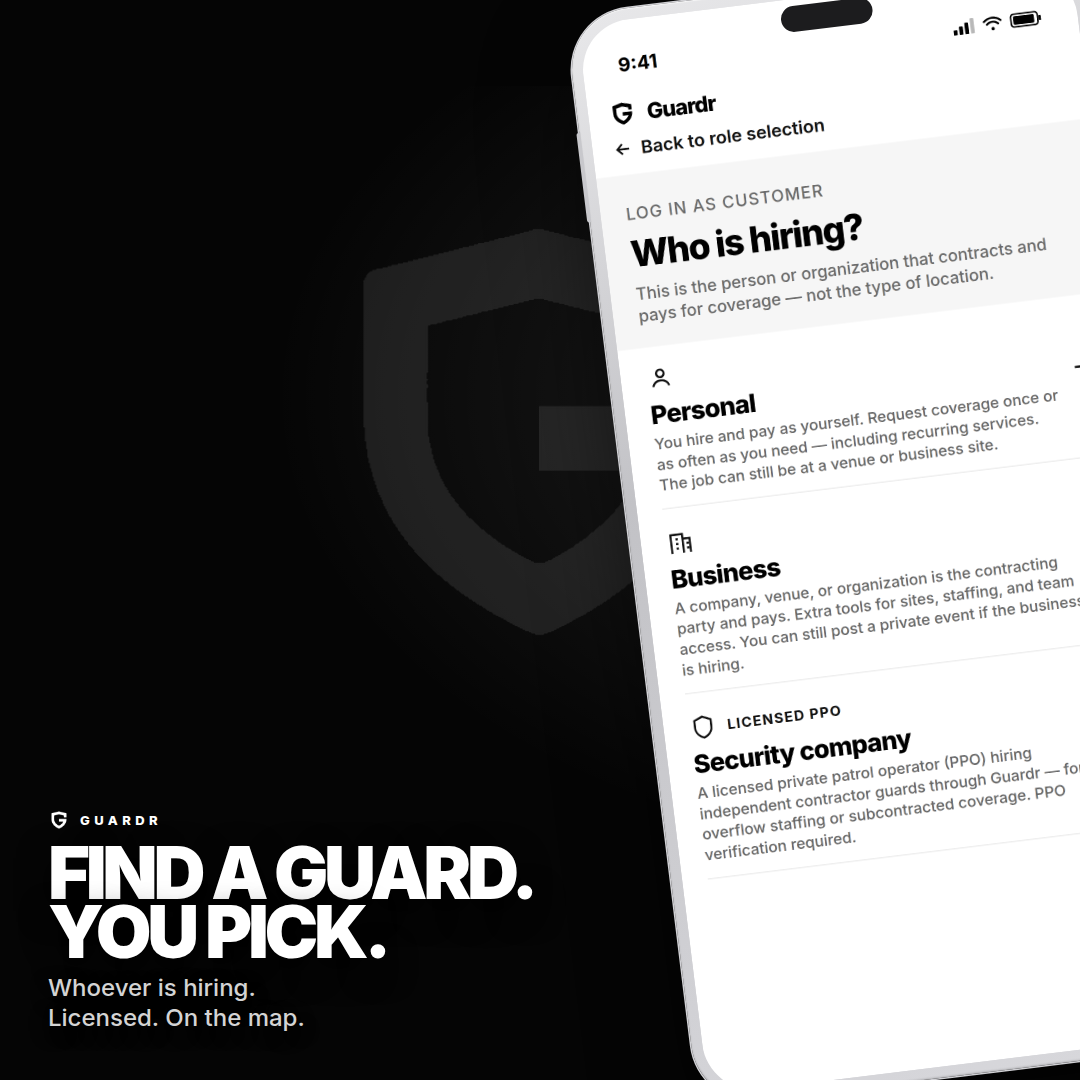
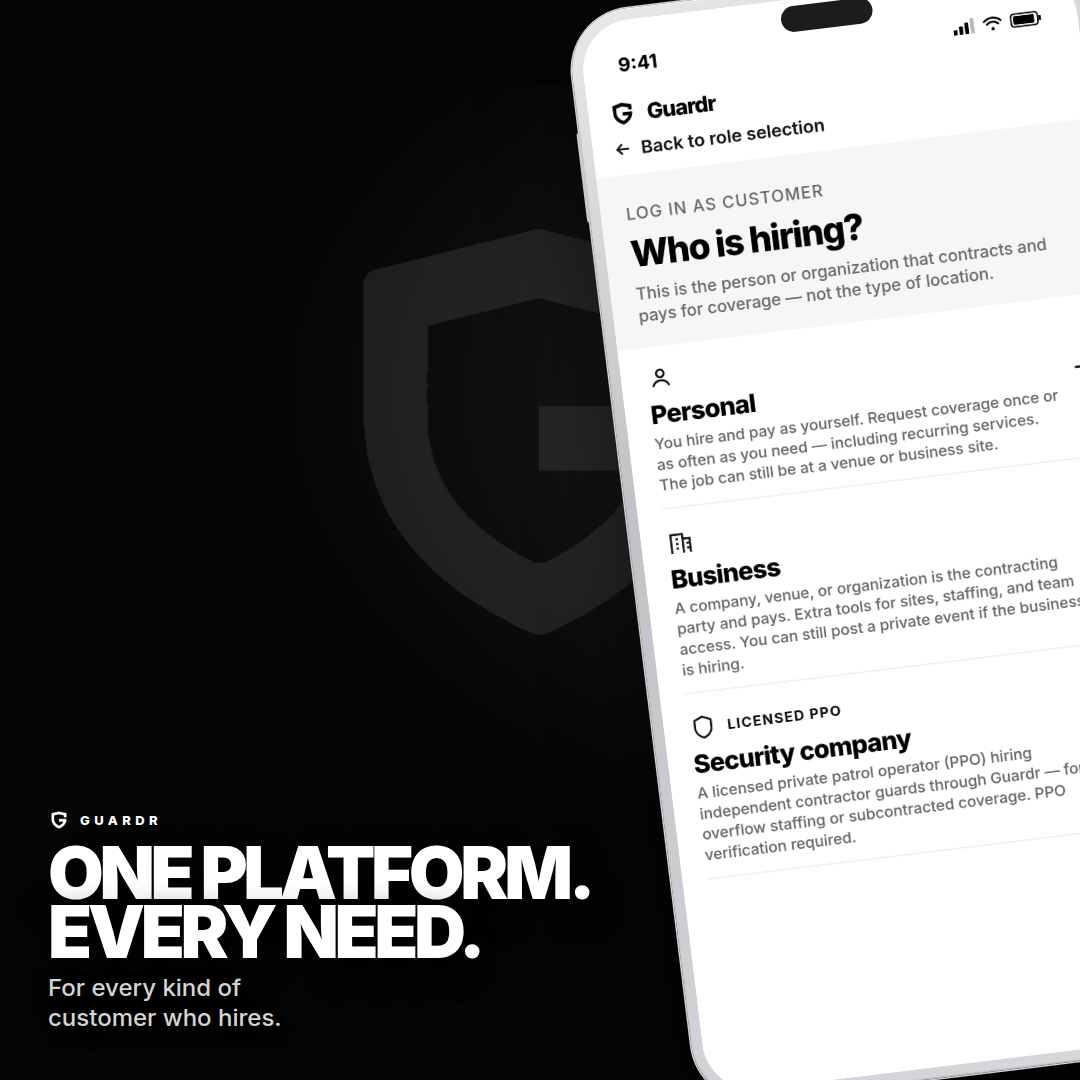
Say one platform for every customer need
Bottom line is ONE PLATFORM. EVERY NEED. — the phone already
shows personal, business, and security company.

Changed region(s): [[0.0306, 0.7639, 0.55, 0.9778]]

diff --git a/docs/marketing/promo-posts-today.md b/docs/marketing/promo-posts-today.md
@@ -5,7 +5,7 @@ Black-and-white. One idea per post. Brand: **Guardr** · **www.guardr.co**
 Re-render B&W: `node scripts/render-promo-posts.mjs --bw`  
 Re-render carousels only: `node scripts/render-promo-posts.mjs --carousel`
 
-**Start here:** who can find a licensed guard — **personal, business, and security companies.** Then you pick who works.
+**Start here:** one platform for every kind of customer who hires — personal, business, and security companies.
 
 ---
 
@@ -13,9 +13,9 @@ Re-render carousels only: `node scripts/render-promo-posts.mjs --carousel`
 
 [`instagram/ig-who-finds.png`](../../assets/marketing/posts/instagram/ig-who-finds.png)
 
-Who is hiring? on the phone (Personal, Business, Security company). Type at the bottom: **FIND A GUARD. YOU PICK.**
+Who is hiring? on the phone (Personal, Business, Security company). Type at the bottom: **ONE PLATFORM. EVERY NEED.**
 
-**Caption:** Find a licensed California guard. Whoever is hiring — you pick who works.
+**Caption:** One platform for every kind of customer who hires. Licensed California guards — you pick who works.
 
 Guardr is the platform — not a staffing agency. Not dispatch. Clients contract directly per job.
 
@@ -37,7 +37,7 @@ Opens on **who can hire**, with the sign-in page on the phone. Ending cover is s
 
 | # | File | Screen | Line |
 |---|---|---|---|
-| 1 Cover | [`00-cover.png`](../../assets/marketing/posts/instagram/carousel-clients/00-cover.png) | Who is hiring? | FIND A GUARD. YOU PICK. |
+| 1 Cover | [`00-cover.png`](../../assets/marketing/posts/instagram/carousel-clients/00-cover.png) | Who is hiring? | ONE PLATFORM. EVERY NEED. |
 | 2 | [`01-tonight.png`](../../assets/marketing/posts/instagram/carousel-clients/01-tonight.png) | Map | NEED A GUARD TONIGHT? |
 | 3 | [`02-post-pick.png`](../../assets/marketing/posts/instagram/carousel-clients/02-post-pick.png) | Jobs | POST A JOB. PICK A GUARD. |
 | 4 | [`03-chat.png`](../../assets/marketing/posts/instagram/carousel-clients/03-chat.png) | Chat | TALK TO WHO APPLIES. |
@@ -100,7 +100,7 @@ Link sticker: **https://www.guardr.co**
 
 | Image | Line |
 |---|---|
-| [`stories/story-who-finds.png`](../../assets/marketing/posts/stories/story-who-finds.png) | FIND A GUARD. YOU PICK. |
+| [`stories/story-who-finds.png`](../../assets/marketing/posts/stories/story-who-finds.png) | ONE PLATFORM. EVERY NEED. |
 | [`stories/story-how-it-works.png`](../../assets/marketing/posts/stories/story-how-it-works.png) | YOU PICK WHO WORKS. |
 | [`stories/story-tonight-map.png`](../../assets/marketing/posts/stories/story-tonight-map.png) | NEED A GUARD TONIGHT? |
 | [`stories/story-no-dispatcher.png`](../../assets/marketing/posts/stories/story-no-dispatcher.png) | NO DISPATCHER. |
@@ -113,7 +113,7 @@ Link sticker: **https://www.guardr.co**
 
 | Image | Line |
 |---|---|
-| [`landscape/wide-who-finds.png`](../../assets/marketing/posts/landscape/wide-who-finds.png) | FIND A GUARD. YOU PICK. |
+| [`landscape/wide-who-finds.png`](../../assets/marketing/posts/landscape/wide-who-finds.png) | ONE PLATFORM. EVERY NEED. |
 | [`landscape/wide-marketplace.png`](../../assets/marketing/posts/landscape/wide-marketplace.png) | YOU PICK WHO WORKS. |
 | [`landscape/wide-tonight-map.png`](../../assets/marketing/posts/landscape/wide-tonight-map.png) | NEED A GUARD TONIGHT? |
 | [`landscape/wide-no-dispatcher.png`](../../assets/marketing/posts/landscape/wide-no-dispatcher.png) | NO DISPATCHER. |

diff --git a/assets/marketing/posts/README.md b/assets/marketing/posts/README.md
@@ -2,7 +2,7 @@
 
 Ready-to-upload social pictures.
 
-- **Start here:** `instagram/ig-who-finds.png` — FIND A GUARD. YOU PICK. with Who is hiring? on the phone (Personal / Business / Security company)
+- **Start here:** `instagram/ig-who-finds.png` — ONE PLATFORM. EVERY NEED. with Who is hiring? on the phone (Personal / Business / Security company)
 - **Carousels (post these):** `instagram/carousel-clients/` opens on that same who-can-hire cover, then three different app screens, then Anytime. Anywhere. on the ending cover. `instagram/carousel-guards/` still opens Anytime. Anywhere.
 - **Phone pack:** `instagram/ig-marketplace.png` (YOU PICK WHO WORKS) plus `ig-tonight-map`, `ig-see-nearby`, `ig-no-dispatcher`, `ig-post-pick`, `ig-your-site`, `ig-open-call`, `ig-apply`, `ig-two-live`
 - **Captions:** [`docs/marketing/promo-posts-today.md`](../../../docs/marketing/promo-posts-today.md)
